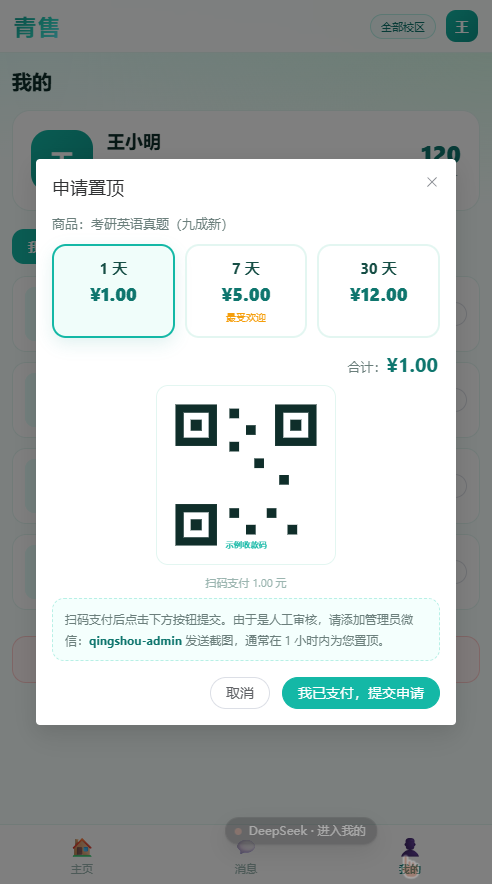
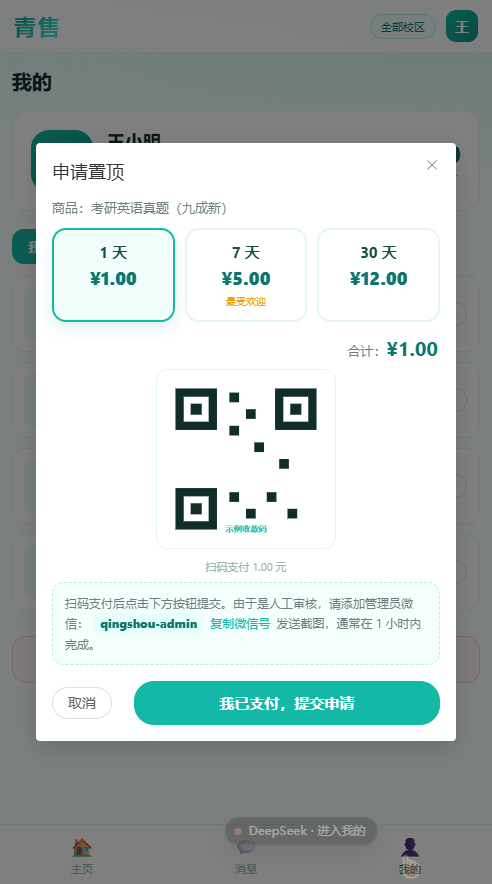
feat: 置顶弹窗支持一键复制管理员微信号，提交按钮加大

diff --git a/frontend/index.html b/frontend/index.html
@@ -283,6 +283,13 @@
     border-radius: 12px; padding: 10px 12px;
   }
   .topup-note b { color: var(--teal-dark); }
+  .wechat-id {
+    display: inline-block; font-weight: 800; color: var(--teal-dark);
+    background: #e6fffa; border-radius: 6px; padding: 0 6px; margin: 0 2px;
+  }
+  .copy-wx-btn { vertical-align: baseline; margin-left: 2px; }
+  .topup-footer { display: flex; gap: 10px; align-items: center; }
+  .topup-submit { flex: 1 1 auto; height: 44px; font-size: 15px; font-weight: 700; }
 
   .order { display: block; }
   .order-head { display: flex; align-items: center; justify-content: space-between; gap: 10px; }
@@ -578,12 +585,19 @@
     </div>
 
     <div class="topup-note">
-      扫码支付后点击下方按钮提交。由于是人工审核，请添加管理员微信：<b>qingshou-admin</b> 发送截图，通常在 1 小时内为您置顶。
+      扫码支付后点击下方按钮提交。由于是人工审核，请添加管理员微信：
+      <span class="wechat-id">{{ adminWechat }}</span>
+      <el-button class="copy-wx-btn" link type="primary" size="small" @click="copyAdminWechat">复制微信号</el-button>
+      发送截图，通常在 1 小时内完成。
     </div>
 
     <template #footer>
-      <el-button round @click="topupDialogVisible = false">取消</el-button>
-      <el-button type="primary" round :loading="topupSubmitting" @click="submitTopup">我已支付，提交申请</el-button>
+      <div class="topup-footer">
+        <el-button round @click="topupDialogVisible = false">取消</el-button>
+        <el-button class="topup-submit" type="primary" round :loading="topupSubmitting" @click="submitTopup">
+          我已支付，提交申请
+        </el-button>
+      </div>
     </template>
   </el-dialog>
 </div>
@@ -634,6 +648,9 @@
       const segment = ref('items');
 
       // ---- 申请置顶弹窗 ----
+      // 管理员微信号：换成你自己的真实微信号即可
+      const ADMIN_WECHAT = 'qingshou-admin';
+      const adminWechat = ref(ADMIN_WECHAT);
       const topupDialogVisible = ref(false);
       const topupItem = ref(null);
       const selectedDays = ref(1);
@@ -956,6 +973,57 @@
         e.target.onerror = null;
       }
 
+      async function copyAdminWechat() {
+        const text = adminWechat.value || '';
+        const ok = await copyText(text);
+        if (ok) {
+          ElementPlus.ElMessage.success('微信号已复制');
+        } else {
+          ElementPlus.ElMessage.error('复制失败，请手动长按复制');
+        }
+      }
+
+      /**
+       * 复制文本：优先 Clipboard API；API 不可用 / 被拒绝 / 卡住超过 400ms 时，
+       * 自动降级到 textarea + execCommand，避免按钮点了没反应。
+       */
+      function copyText(text) {
+        return new Promise((resolve) => {
+          let settled = false;
+          const finish = (value) => {
+            if (settled) return;
+            settled = true;
+            resolve(value);
+          };
+          const fallback = () => {
+            const ta = document.createElement('textarea');
+            ta.value = text;
+            ta.style.position = 'fixed';
+            ta.style.opacity = '0';
+            document.body.appendChild(ta);
+            ta.select();
+            let ok = false;
+            try {
+              ok = document.execCommand('copy');
+            } catch (e) {
+              ok = false;
+            } finally {
+              document.body.removeChild(ta);
+            }
+            finish(ok);
+          };
+
+          if (navigator.clipboard && window.isSecureContext) {
+            const timer = setTimeout(fallback, 400);
+            navigator.clipboard.writeText(text)
+              .then(() => { clearTimeout(timer); finish(true); })
+              .catch(() => { clearTimeout(timer); fallback(); });
+          } else {
+            fallback();
+          }
+        });
+      }
+
       async function submitTopup() {
         if (!topupItem.value) return;
         topupSubmitting.value = true;
@@ -1036,6 +1104,7 @@
         campuses, campus, keyword, items, total, page, loading, loadingMore, noMore, error,
         profile, myItems, bought, sold, segments, segment, currentOrders,
         topupDialogVisible, topupItem, selectedDays, topupSubmitting, plans, qrSrc, planPrice,
+        adminWechat, copyAdminWechat,
         openTopup, submitTopup, onQrError,
         avatarText, switchTab, pickCampus, loadItems, reload, loadProfile,
         switchSegment, segmentCount, goPublish, goDetail, logout,
